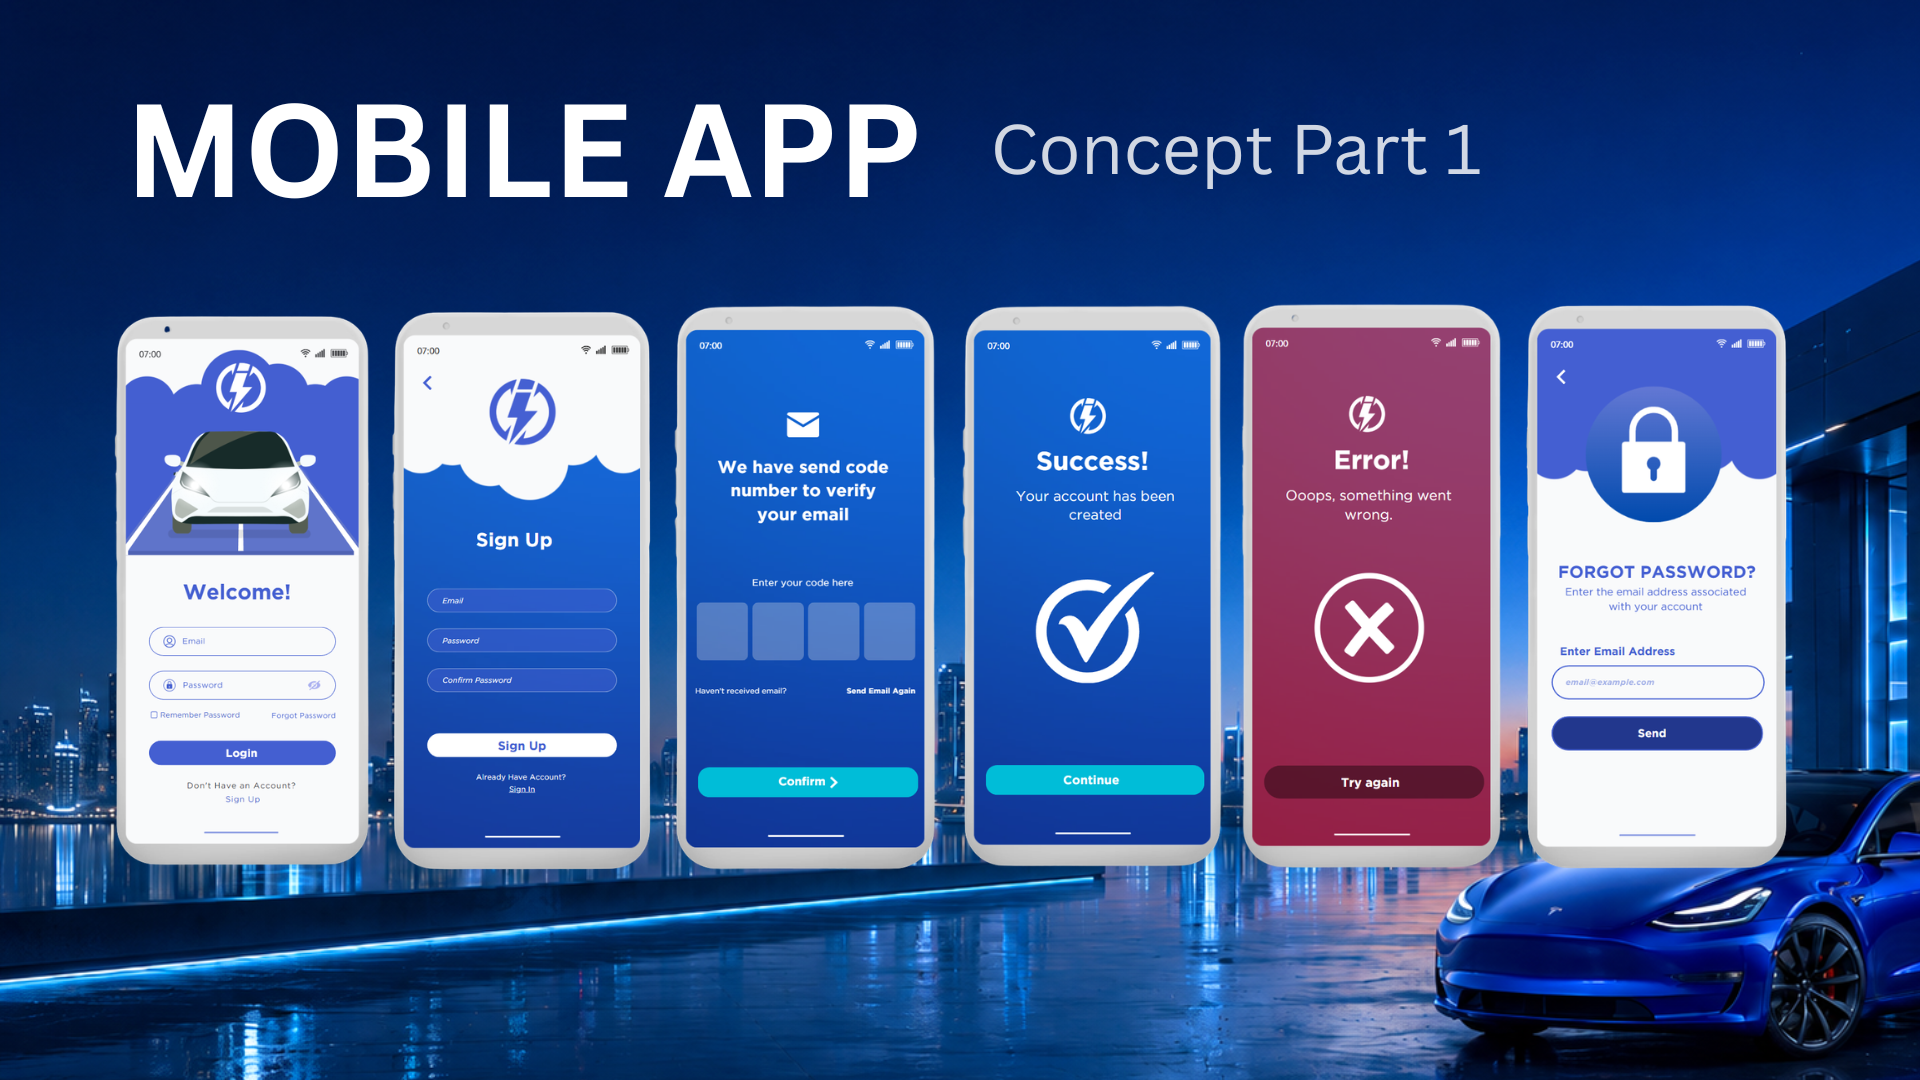
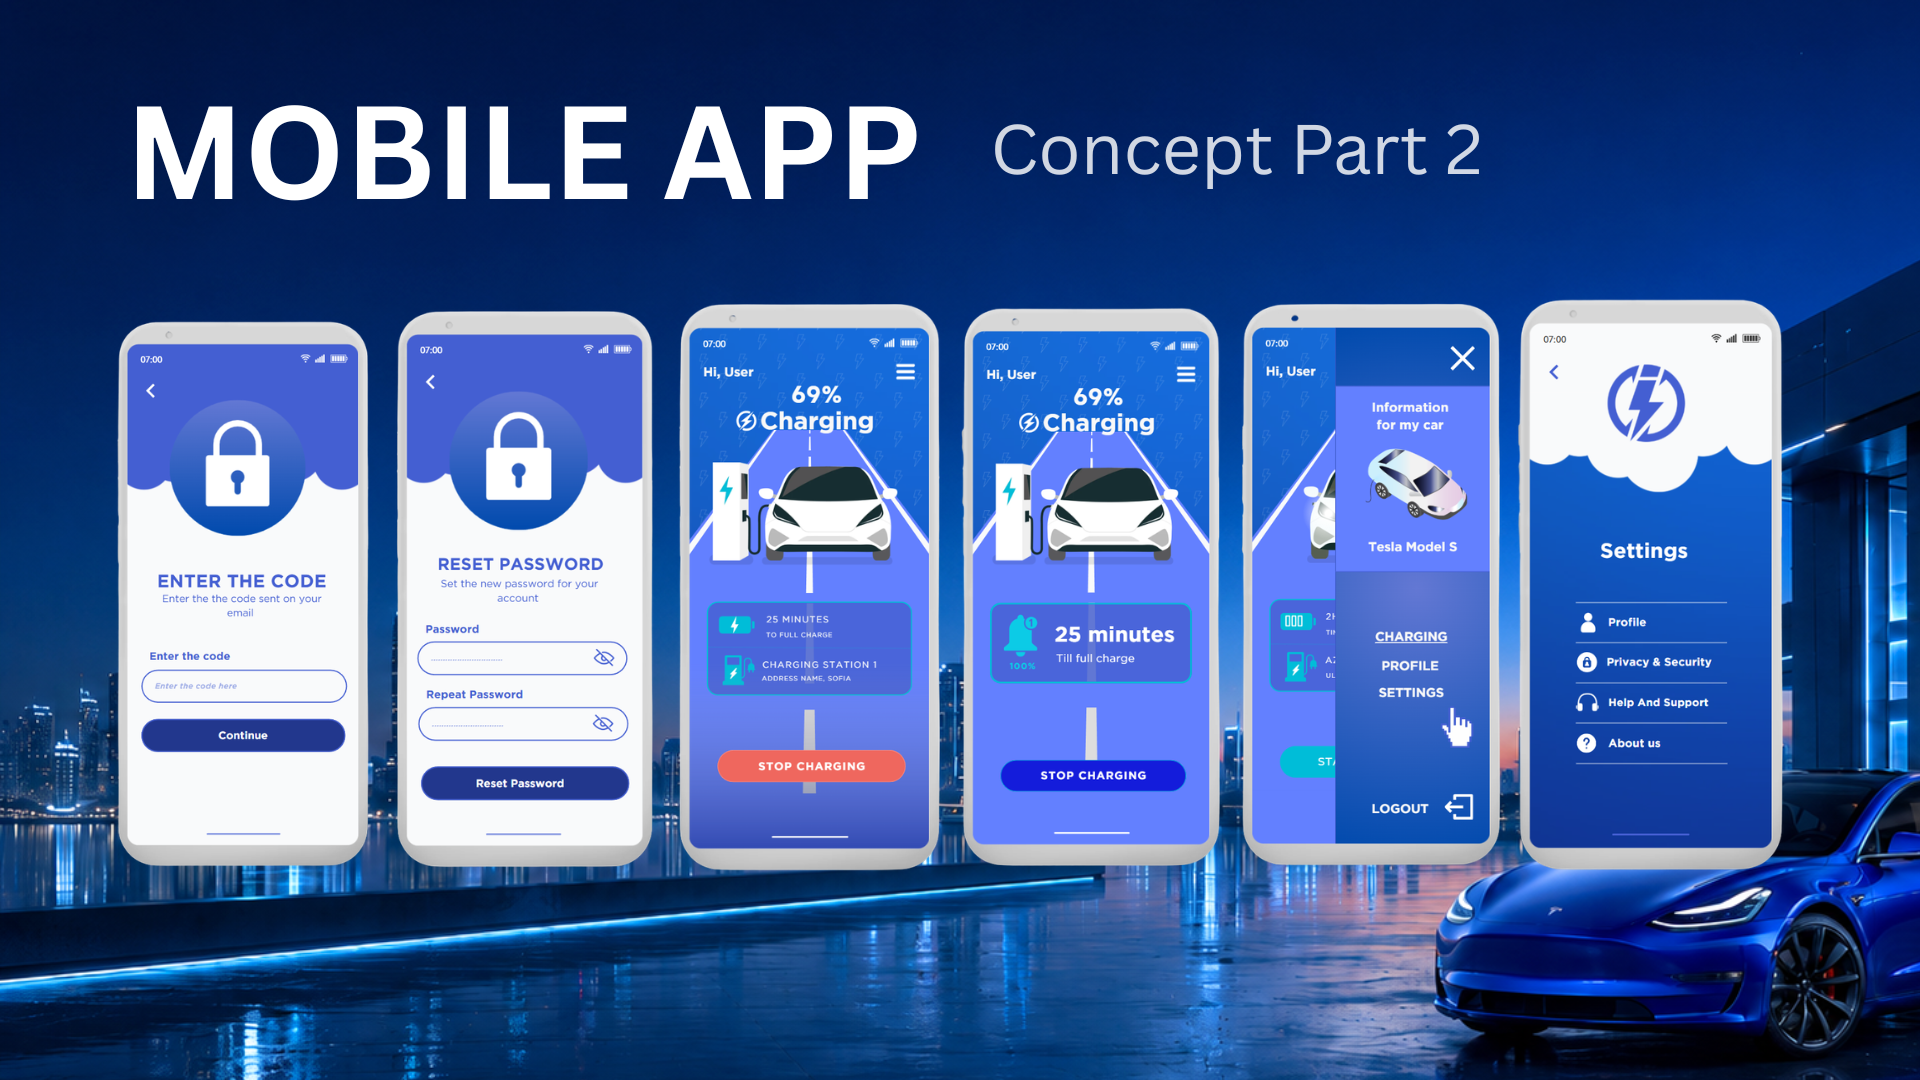
sections update

diff --git a/index.html b/index.html
@@ -305,18 +305,6 @@
                     <img src="Icons/wallpaper.png" alt="" />
                   </a>
                 </figure>
-                <figure class="slider-slide">
-                  <span>Desktop concept</span>
-                </figure>
-                <figure class="slider-slide">
-                  <span>Landing page</span>
-                </figure>
-                <figure class="slider-slide">
-                  <span>Mobile screens</span>
-                </figure>
-                <figure class="slider-slide">
-                  <span>UI detail</span>
-                </figure>
               </div>
               <button class="slider-arrow slider-arrow-next" type="button" aria-label="Next website design image">
                 ›
@@ -837,18 +825,21 @@
               <div class="slider-stage">
                 <figure class="slider-slide image-slide is-active">
                   <img
-                    src="Miscellaneous%20%20Section/podcast_01.png?v=20260521"
+                    src="Miscellaneous%20%20Section/podcast_01.png?v=20260521-7"
                     alt="Podcast miscellaneous banner design"
                   />
                 </figure>
-                <figure class="slider-slide">
-                  <span>Campaign detail</span>
+                <figure class="slider-slide image-slide">
+                  <img
+                    src="Miscellaneous%20%20Section/car_app_01.png?v=20260521-7"
+                    alt="Mobile app miscellaneous banner design part 1"
+                  />
                 </figure>
-                <figure class="slider-slide">
-                  <span>Visual experiment</span>
-                </figure>
-                <figure class="slider-slide">
-                  <span>Extra project</span>
+                <figure class="slider-slide image-slide">
+                  <img
+                    src="Miscellaneous%20%20Section/car_app_02.png?v=20260521-7"
+                    alt="Mobile app miscellaneous banner design part 2"
+                  />
                 </figure>
               </div>
               <button class="slider-arrow slider-arrow-next" type="button" aria-label="Next miscellaneous design image">
